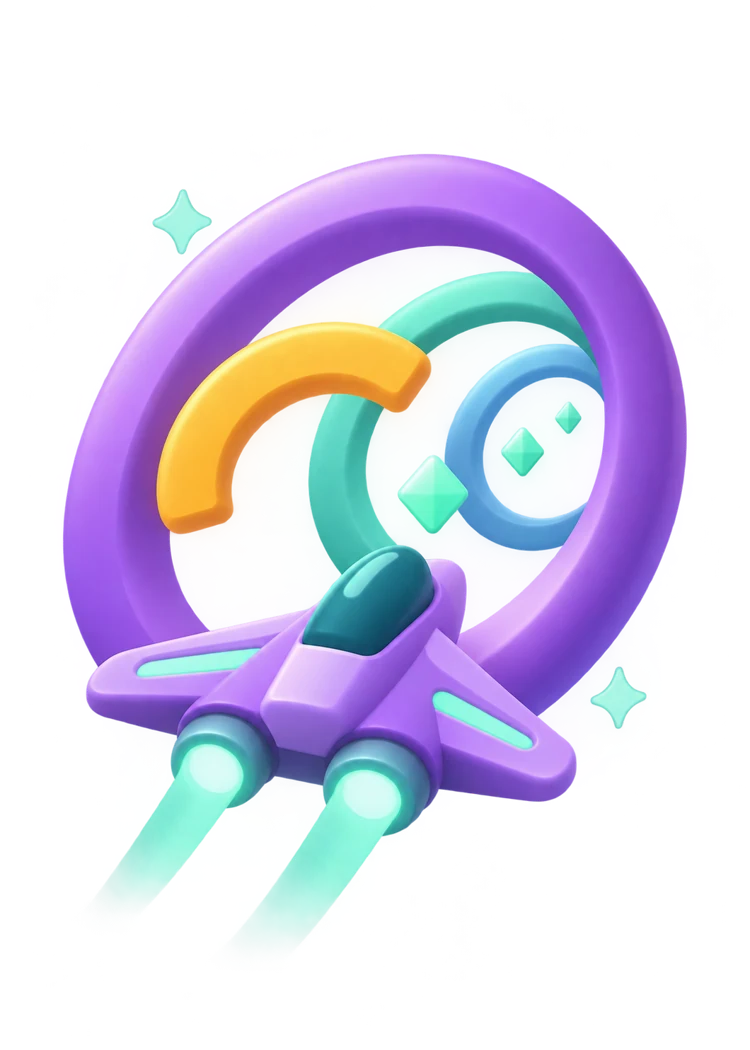
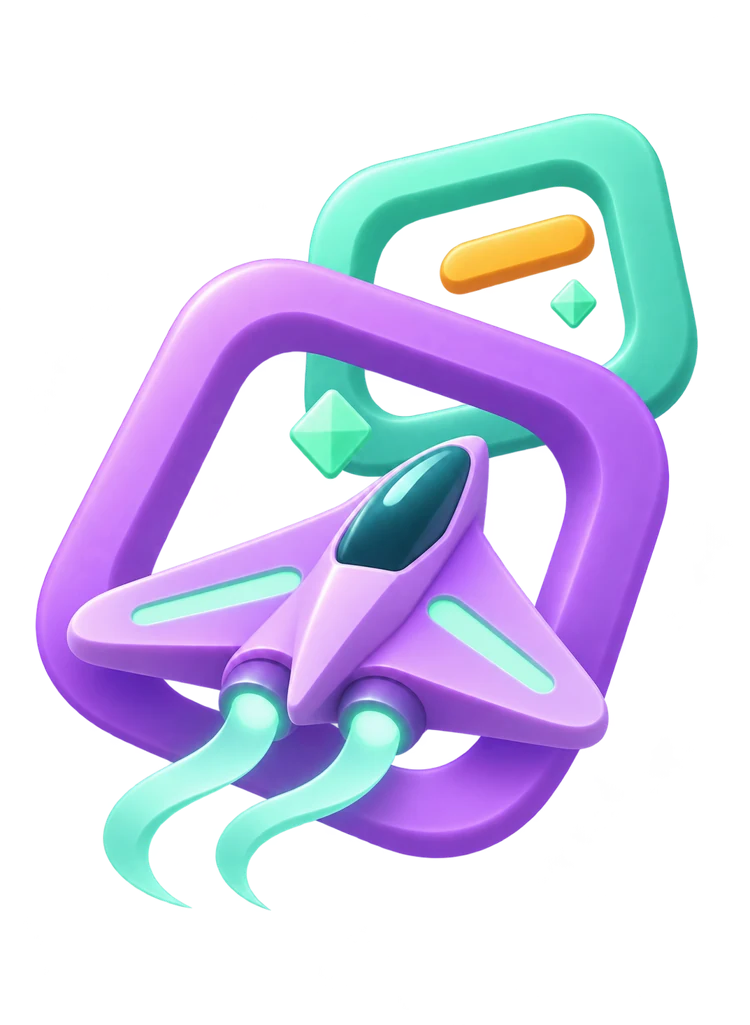
Use selected Neon Glider artwork for Neon Dodger (#11)

diff --git a/sw.js b/sw.js
@@ -1,7 +1,7 @@
 /* Built for the current app bundle. APIs and player data never enter this cache. */
 const SCOPE = self.registration.scope;
 const PREFIX = 'hhh-' + new URL(SCOPE).pathname + '-';
-const CACHE = PREFIX + '2a94858e3c902698';
+const CACHE = PREFIX + '8479a0564dd5ab47';
 self.addEventListener('install', event => {
   event.waitUntil((async () => {
     const cache = await caches.open(CACHE);

diff --git a/README.md b/README.md
@@ -104,4 +104,4 @@ Both builds generate a versioned service worker and precache list containing the
 
 ## Neon Dodger card artwork
 
-The card uses `public/neon-dodger-preview.webp`, a transparent, softly beveled illustration of a lavender ship, mint thrusters, portal rings, an amber obstacle and energy crystals. The rounded forms and purple/teal palette match the 2048 and Block Flux card art. The committed 750×1050 WebP is copied by both builds and included in the offline cache; the hub runs no Three.js scene for this card. CSS uses `object-fit: contain` without edge masks to preserve the illustration's silhouette. The older preview scripts remain available for gameplay-reference renders, but do not generate the current stylized card artwork.
+The card uses `public/neon-dodger-preview.webp`, a transparent, softly beveled illustration of the Neon Glider with lavender wings, mint exhaust ribbons, offset rounded-square portals, an amber obstacle and energy crystals. The rounded forms and purple/teal palette match the 2048 and Block Flux card art. The committed 750×1025 WebP is copied by both builds and included in the offline cache; the hub runs no Three.js scene for this card. CSS uses `object-fit: contain` without edge masks to preserve the illustration's silhouette. The older preview scripts remain available for gameplay-reference renders, but do not generate the current stylized card artwork.
